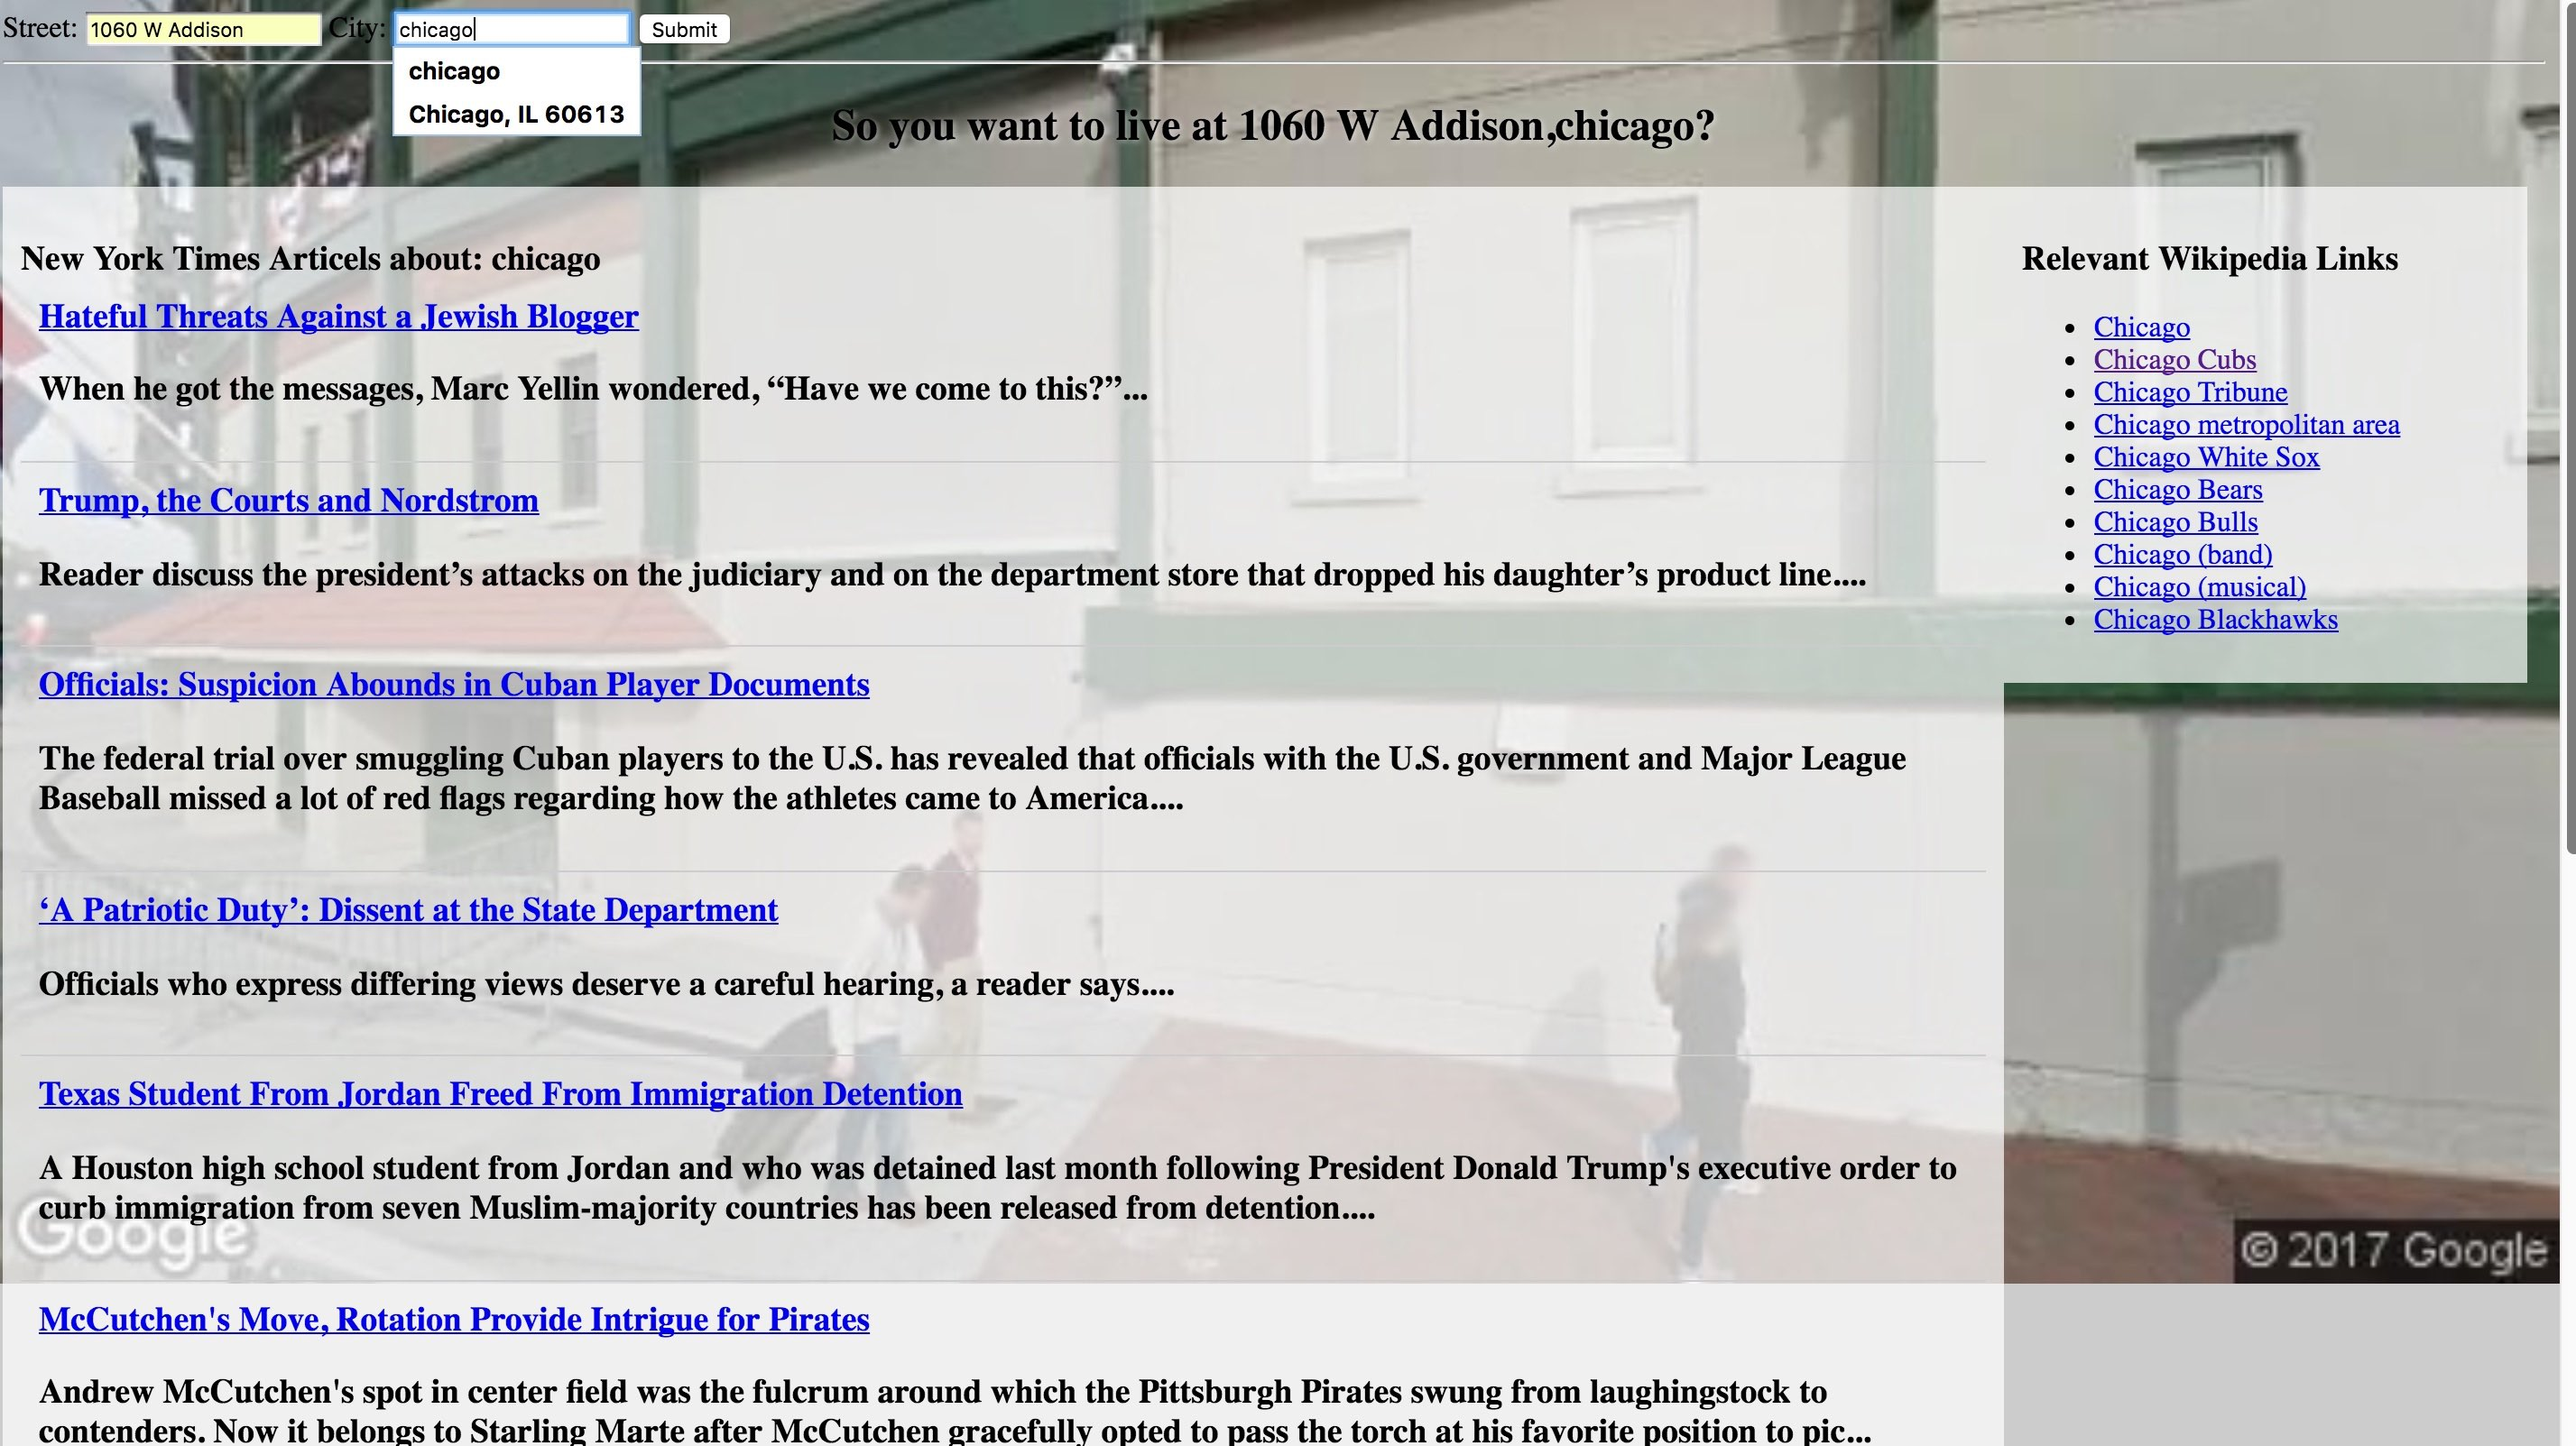
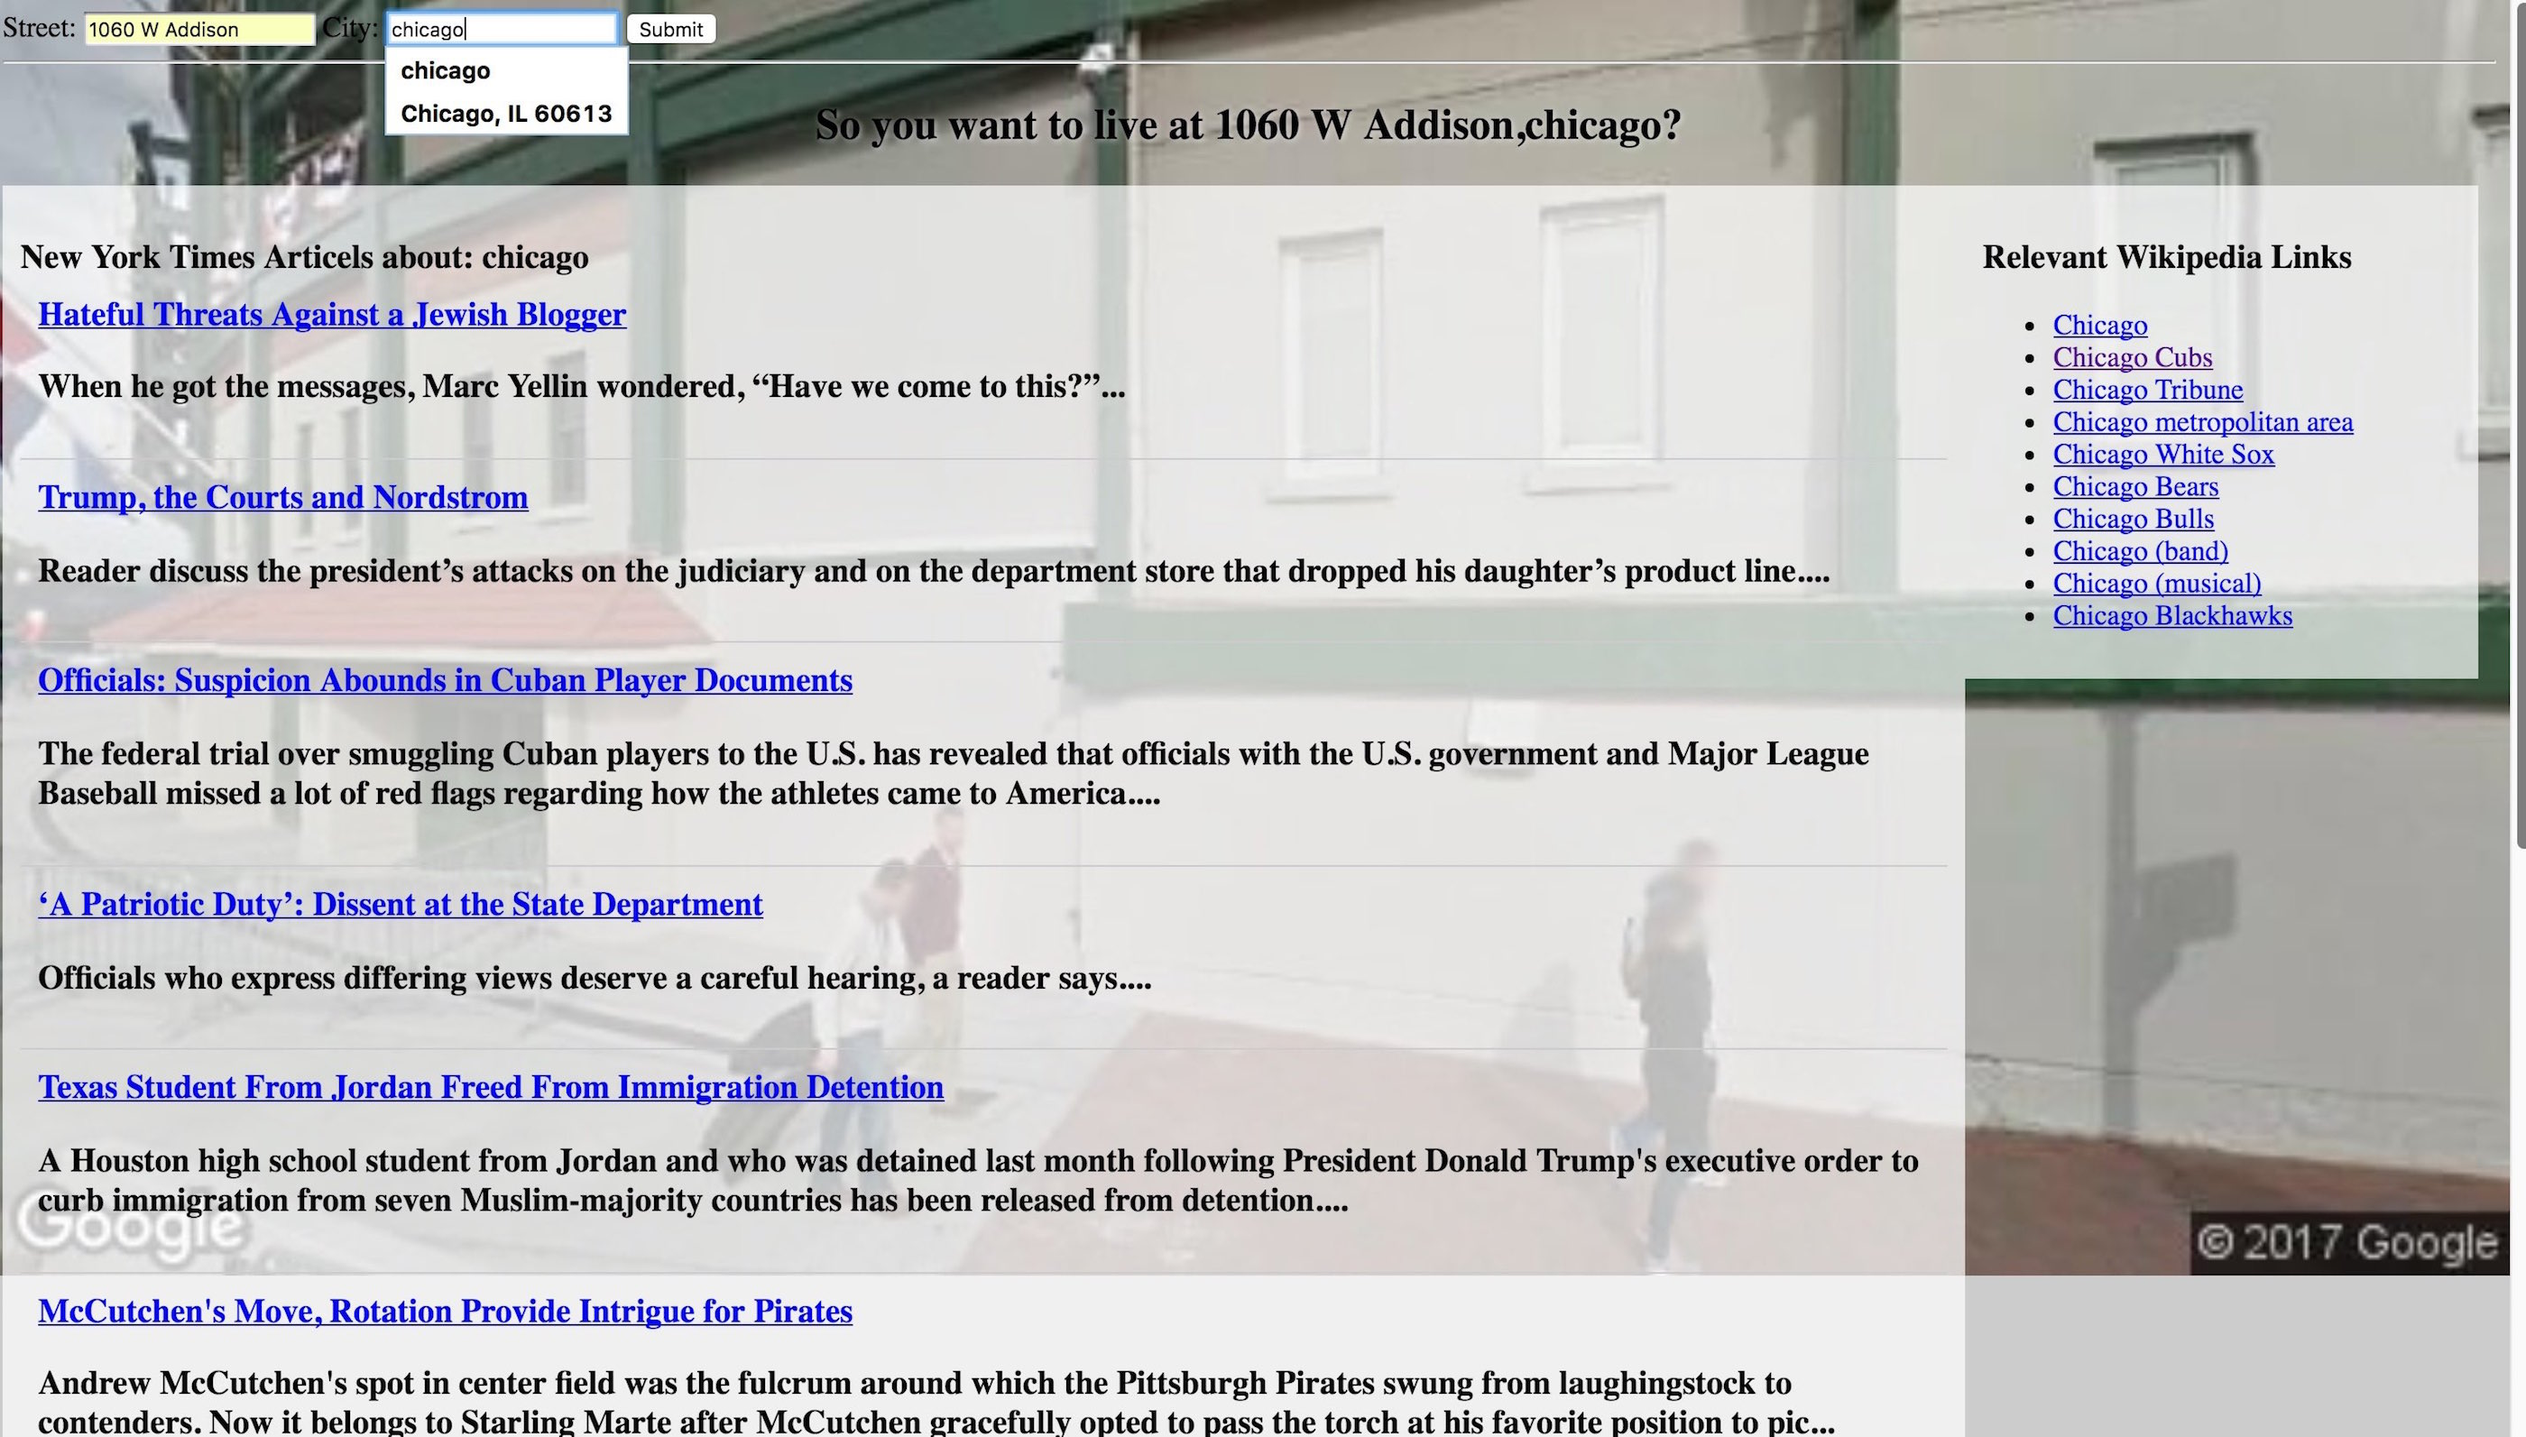
changed size of imgs and added meta viewport

diff --git a/_includes/head.html b/_includes/head.html
@@ -2,7 +2,7 @@
     <meta charset="utf-8">
     <meta http-equiv="X-UA-Compatible" content="IE=edge">
     <title>{% if page.title %}{{ page.title }}{% else %}{{ site.title }}{% endif %}</title>
-    <meta name="viewport" content="width=device-width">
+    <meta name="viewport" content="width=device-width, initial-scale=1">
     <meta name="description" content="{{ site.description }}">
     {% if site.meta_author %}<meta name="author" content="{{ site.meta_author }}">{% endif %}
     <link rel="canonical" href="{{ page.url | replace:'index.html','' | prepend: site.url }}">
